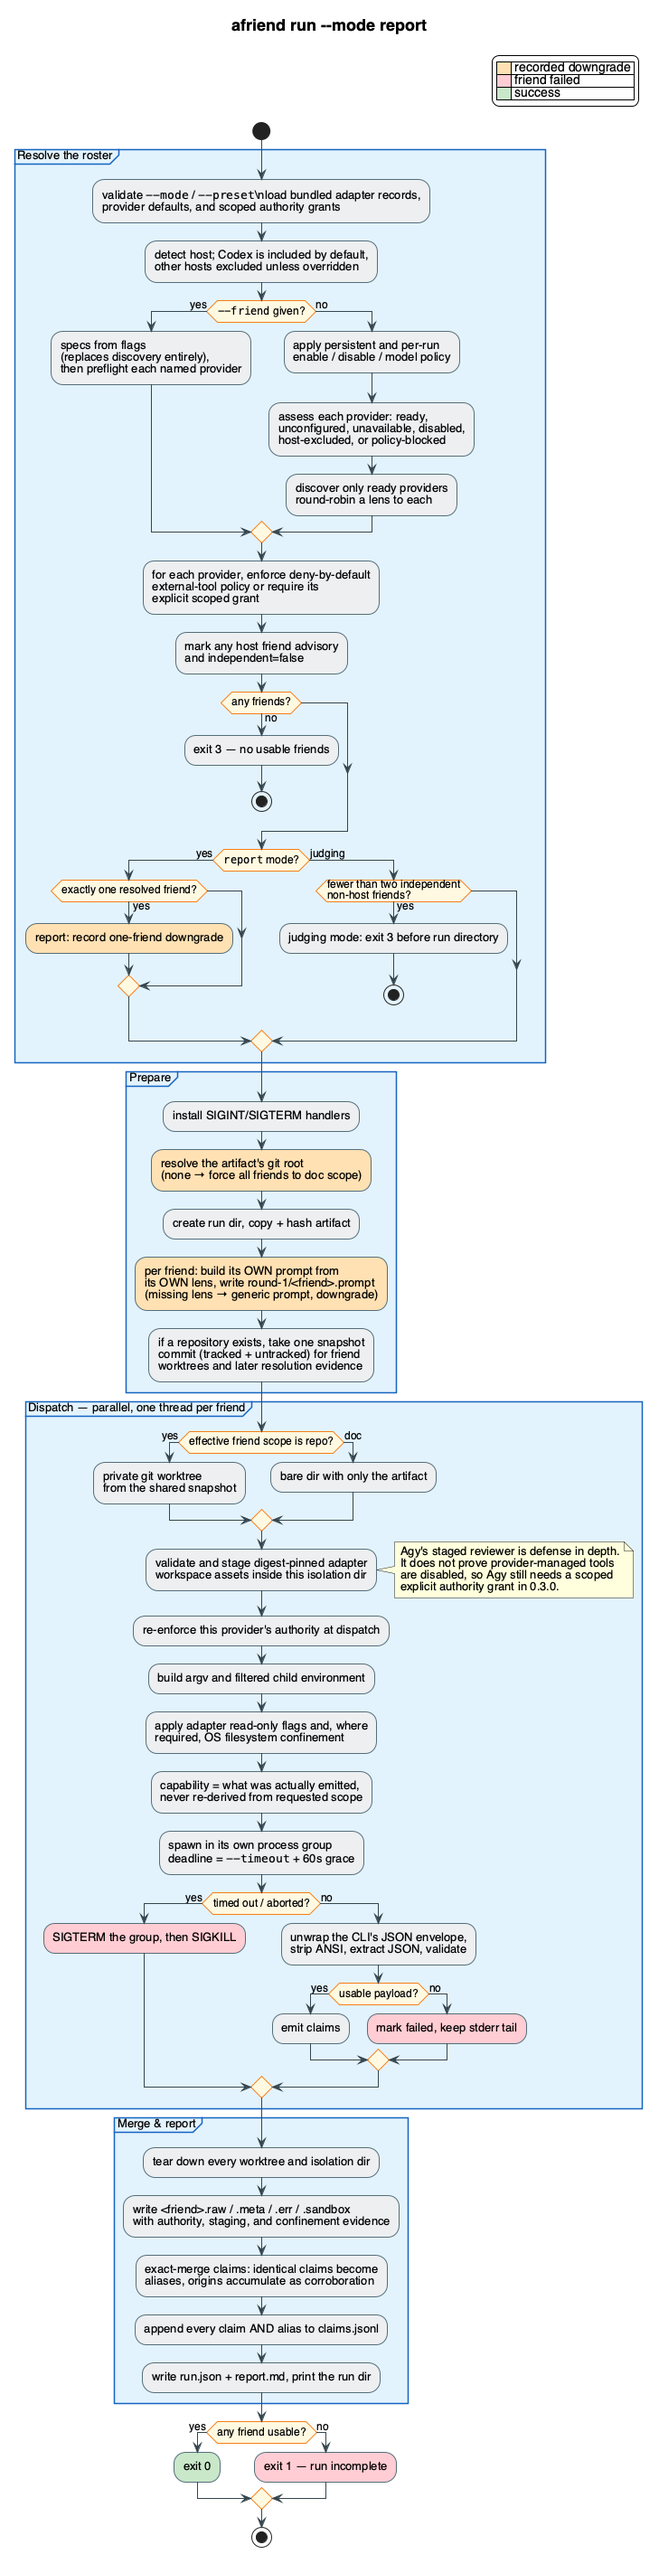
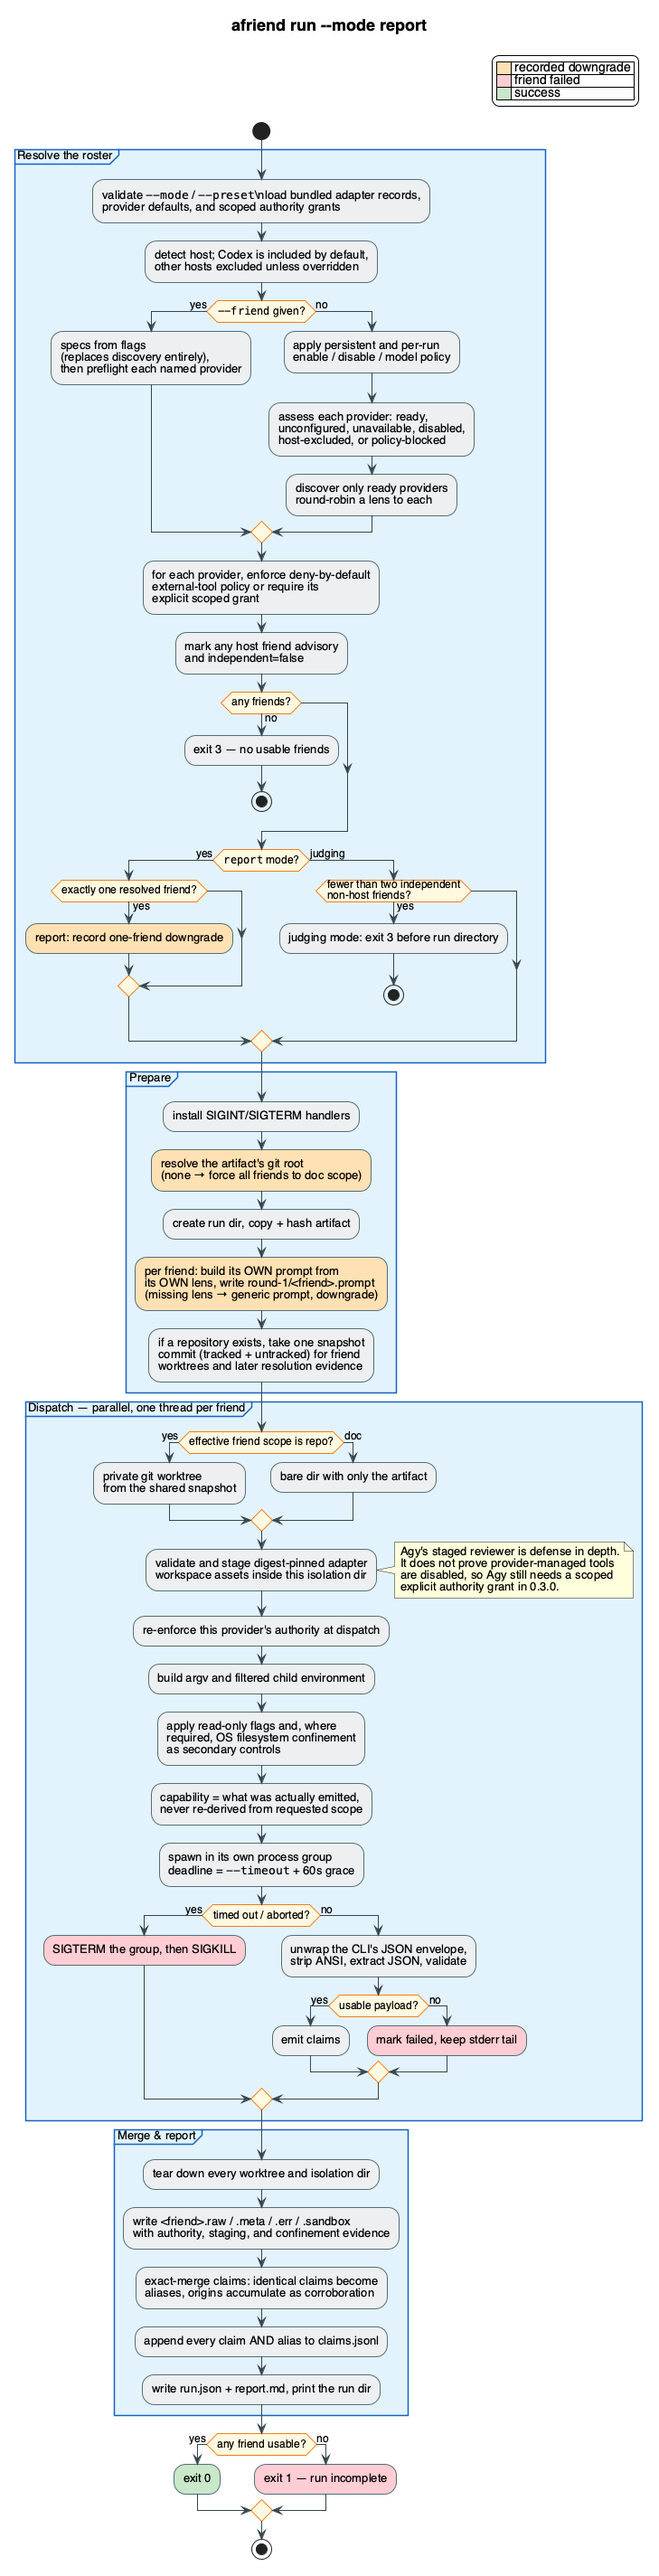
Harden resume authority validation

diff --git a/tests/test_authority_resume_external_tools.py b/tests/test_authority_resume_external_tools.py
@@ -1,0 +1,68 @@
+import argparse
+import json
+from pathlib import Path
+
+import pytest
+
+from adversarial_friends.commands.runmeta import _restore_args
+from adversarial_friends.errors import UsageError
+
+
+def _resume_args(run_dir: Path, **overrides):
+    values = dict(
+        resume=str(run_dir),
+        out=None,
+        artifact=None,
+        friend=[],
+        allow_external_tools=[],
+        allow_unsandboxed_friend=False,
+        unsafe_extra_args=None,
+        i_accept_unsandboxed=False,
+        pass_env=[],
+    )
+    values.update(overrides)
+    return argparse.Namespace(**values)
+
+
+def _write_resume_fixture(
+    tmp_path: Path,
+    invocation: dict[str, object],
+    roster: list[dict[str, object]] | None = None,
+) -> Path:
+    run_dir = tmp_path / "run-test"
+    run_dir.mkdir()
+    artifact = str(tmp_path / "spec.md")
+    snapshot = {
+        "repo_root": None,
+        "commit": None,
+        "tree": None,
+        "artifact_path": artifact,
+        "artifact_hash": "sha256:" + "0" * 64,
+        "predecessor": None,
+    }
+    meta = {
+        "schema_version": 2,
+        "lifecycle_state": "waiting-for-orchestrator",
+        "invocation": {"artifact": artifact, "friend": [], **invocation},
+        "roster": roster or [],
+        "snapshot": snapshot,
+        "snapshot_history": [snapshot],
+    }
+    (tmp_path / "spec.md").write_text("# spec\n")
+    round_dir = run_dir / "round-1"
+    round_dir.mkdir()
+    (round_dir / "REQUEST.json").write_text(json.dumps({"question": "merge"}))
+    (run_dir / "run.json").write_text(json.dumps(meta))
+    return run_dir
+
+
+def test_unknown_saved_external_tool_grant_is_rejected(tmp_path):
+    run_dir = _write_resume_fixture(tmp_path, {"allow_external_tools": ["future"]})
+    with pytest.raises(UsageError, match="unknown --allow-external-tools"):
+        _restore_args(_resume_args(run_dir))
+
+
+def test_unknown_current_external_tool_grant_is_rejected(tmp_path):
+    run_dir = _write_resume_fixture(tmp_path, {"allow_external_tools": []})
+    with pytest.raises(UsageError, match="unknown --allow-external-tools"):
+        _restore_args(_resume_args(run_dir, allow_external_tools=["future"]))

diff --git a/src/adversarial_friends/commands/runmeta_restore.py b/src/adversarial_friends/commands/runmeta_restore.py
@@ -3,9 +3,11 @@
 import argparse
 from pathlib import Path
 
-from ..adapters import FriendSpec, validate_roster_entry_uniqueness
+from ..adapters import FriendSpec, load_adapters, validate_roster_entry_uniqueness
+from ..authority import AuthorityPolicy
 from ..errors import UsageError
 from ..jsonio import load_json_object
+from ..paths import ADAPTER_DIR
 from ..readiness import can_be_host_provider
 from ..runstore import default_root
 from ..themes import ThemeProposal
@@ -61,6 +63,7 @@ def restore_args(args: argparse.Namespace) -> argparse.Namespace:
             f"cannot resume: {meta_path} has no valid invocation; it may predate "
             "resume support and does not record how the run was invoked."
         )
+    known_providers = set(load_adapters(ADAPTER_DIR).keys())
     normalize_repeat_tracker(meta.get("repeat_tracker", {}))
     for name in _RESUMABLE_ARGS:
         if name in saved:
@@ -78,6 +81,14 @@ def restore_args(args: argparse.Namespace) -> argparse.Namespace:
         if name == "allow_external_tools":
             saved_value = _normalize_saved_grants(saved_value)
             current_value = _normalize_saved_grants(current_value)
+            try:
+                AuthorityPolicy.from_grants(saved_value, known_providers)
+            except UsageError as exc:
+                raise UsageError(f"cannot resume: {exc}") from exc
+            try:
+                AuthorityPolicy.from_grants(current_value, known_providers)
+            except UsageError as exc:
+                raise UsageError(f"cannot resume: {exc}") from exc
         if current_value != saved_value:
             raise UsageError(
                 f"cannot resume: prior --{name.replace('_', '-')} authority must be "

diff --git a/README.md b/README.md
@@ -9,7 +9,7 @@
 [![Python](https://img.shields.io/badge/python-3.11%2B-blue)](pyproject.toml)
 [![Dependencies](https://img.shields.io/badge/runtime%20deps-none-brightgreen)](pyproject.toml)
 [![License](https://img.shields.io/badge/license-MIT-green)](LICENSE)
-[![Tests](https://img.shields.io/badge/tests-1983-brightgreen)](tests/)
+[![Tests](https://img.shields.io/badge/tests-1985-brightgreen)](tests/)
 
 It automates a workflow you may already do by hand: run a review, paste the
 findings into a different model, ask whether they hold up, carry the argument
@@ -178,7 +178,7 @@ Every friend gets its **own** prompt built from its **own** lens, runs in its
 |---|---|
 | 🔍 **Resolve** | Discover agent CLIs on `PATH`, round-robin a lens to each |
 | ✍ **Prompt** | Build a per-friend prompt: shared contract header + that friend's lens prose + the artifact |
-| 🔒 **Isolate** | Repo-scoped friends get a private `git worktree` from one shared snapshot; doc-scoped friends get an artifact-only directory. Adapter read-only flags and, where required, OS confinement (`sandbox-exec` / `bwrap`) enforce that scope — or the friend is refused |
+| 🔒 **Isolate** | Repo-scoped friends get a private `git worktree` from one shared snapshot; doc-scoped friends get an artifact-only directory. Friend scope determines the isolation directory, then adapter read-only flags and, where required, OS confinement (`sandbox-exec` / `bwrap`) are applied as a second line of defense — or the friend is refused |
 | 🛂 **Deny remote authority** | External tools are denied by default. An adapter that cannot neutralize provider-managed tools, plugins, apps, or MCP servers is `policy-blocked` unless `--allow-external-tools=PROVIDER` explicitly opts that provider in for this run |
 | 🧰 **Stage harnesses** | Adapter-owned workspace assets are copied into each isolated run workspace. Agy receives the controlled `afriend-reviewer` agent selected with `--agent`, `--disable-slash-commands`, `--mode plan`, and `--sandbox` |
 | ⚡ **Dispatch** | Parallel, one thread per friend, each in its own process group with a kill deadline of `--timeout + 60s` |
